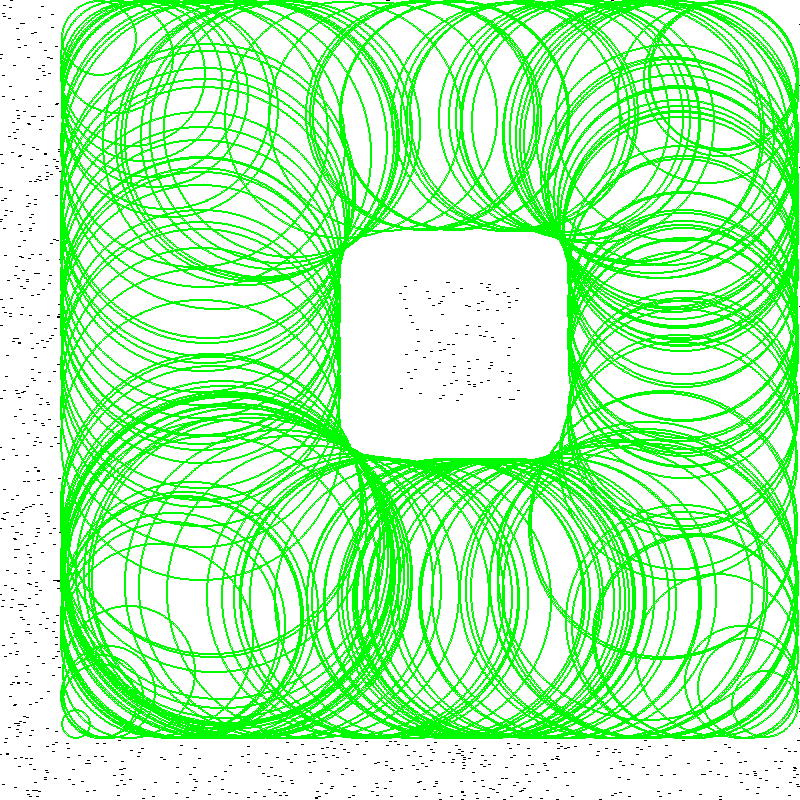
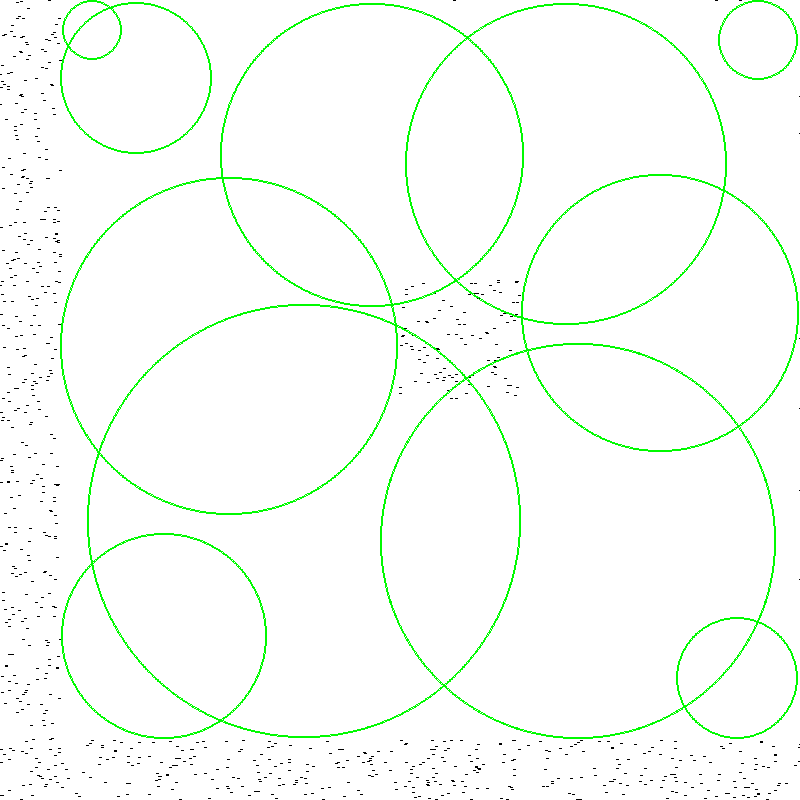
medial axis sampling done

diff --git a/sampling/masampling.py b/sampling/masampling.py
@@ -83,37 +83,32 @@ class BlockSamplingHelper( samplinghelper ):
 			raise Exception( 'Please give a BlockRobot instance' );
 		if not isinstance(config, BlockRobotConfig):
 			config = BlockRobotConfig(config[0], config[1], config[2], config[3]);
-
-		#wall_dists = [0] * len(dimensions);
-		#for i in range(0, len(dimensions)):
-		#	wall_dists[i] = min( [math.fabs(config[i]), math.fabs(dimensions[i]-config[i]) ] )
-
-		#return min( [min(wall_dists) ,robot.config_clearance(config, mode)]);
 		return robot.config_clearance(config, mode);
 
-	def maSample(self, robot, config, direction, max_len, dimensions):
+	def maSample(self, robot, config, direction, max_len, dimensions, mode = 'L2'):
 		'''get the medial axis sample along a directon, with max length.
 		@param dimensions: max values of each dimension'''
 		if not self.is_valid_config(robot, config):
-			raise Exception('Has to be a feasible configuration');
+			#raise Exception('Has to be a feasible configuration');
+			return None, None
 		t = 1;
 		last_increase = False;
-		last_dist = self.config_clearance(robot, config, dimensions);
+		last_dist = self.config_clearance(robot, config, dimensions, mode);
 		dists = [last_dist];
 		while True:
 			if t-1 >= max_len:
 				return None, None;
 			temp = config + direction * t
 			#print temp
-			this_dist = self.config_clearance(robot, temp, dimensions); 
+			this_dist = self.config_clearance(robot, temp, dimensions, mode); 
 			dists.append(this_dist);
 			if this_dist <=0 or this_dist-last_dist == 0:
 				break;
 			this_increase = ((this_dist-last_dist)>0);
 			if last_increase and not this_increase:
 				if self.is_valid_config(robot, temp):
-					print '-----------------------------'
-					print dists
+					#print '-----------------------------'
+					#print dists
 					return temp, this_dist;
 				else:
 					return None, None;
@@ -181,13 +176,14 @@ class MedialAxisSampler:
 
 		return dir.normalize();
 
-	def sample_medial_axis(self, randSamples, dimensions):
+	def sample_medial_axis(self, randSamples, dimensions, mode = 'L2'):
 		'''Given a bunch of random samples, find some medial axis samples using them.
 		@param dimensions: max values of each dimension'''
-		length = 40;
+		length = 20;
 		ma_samples = []
 
 		for config in randSamples:
+
 			good = True;
 			for sphere in ma_samples:
 				if sphere.contains(config):
@@ -197,8 +193,8 @@ class MedialAxisSampler:
 				continue;
 
 			rnd_dir = self.random_dir( len(config) );
-			center, clearance = self.helper.maSample(self.robot, config, rnd_dir, length, dimensions);
-			if clearance == None:
+			center, clearance = self.helper.maSample(self.robot, config, rnd_dir, length, dimensions, mode);
+			if clearance == None or clearance <= 5.0:
 				continue;
 			sample = Sample(center, clearance);
 			ma_samples.append(sample);

diff --git a/basics/math/hyper_geometry.py b/basics/math/hyper_geometry.py
@@ -13,7 +13,7 @@ __author__ = 'Yinan'
 __revision__ = '$Revision$'
 
 
-from math import sqrt, pi, degrees, radians, cos, sin, acos, asin, atan2
+from math import sqrt, pi, degrees, radians, cos, sin, acos, asin, atan2, fabs
 
 
 #========================================================================================
@@ -58,12 +58,18 @@ class vec:
 		return rsq;
 
 	def r( self ):
-		'Return the length of the vector.'
-		return sqrt( self.rsq() );
+		'Return the l2 length of the vector.'
+		rsq = 0.0;
+		for i in range(0, len(self.pos)):
+			rsq += self.pos[i]**2
+		return sqrt(rsq);
 
 	def l1(self):
 		'''return the L1 distance'''
-		return sum(self.pos);
+		sum_ = 0.0;
+		for i in range(0, len(self.pos)):
+			sum_ += fabs(self.pos[i]*1.0)
+		return sum_;
 
 	length = r # alias
 
@@ -174,7 +180,7 @@ class hyper_sphere:
 		'''determine if the point is inside the sphere
 		@param point: (vec) the point'''
 		dist = (point - self.center).r();
-		return dist < point;
+		return dist < self.radius;
 
 	def intersects( self, other ):
 		'''determine if the other sphere is intersecting with self'''

diff --git a/sampling/test.py b/sampling/test.py
@@ -20,7 +20,7 @@ def main():
 	robot = BlockRobot();
 	#startConfig = BlockRobotConfig(100,200, 700, 600);
 	#goalConfig = BlockRobotConfig(400,400, 482.5, 332.5);
-	#testConfig = BlockRobotConfig(400, 400, 460, 500);
+	testConfig = BlockRobotConfig(400, 400, 350, 400);
 
 	helper  = BlockSamplingHelper();
 	sampler = MedialAxisSampler(robot, helper);
@@ -33,7 +33,7 @@ def main():
 		pygame.draw.line( DISPLAYSURF, (0,0,0), point, point, 3 );
 
 	random_configs = sampler.random_configs(4, 2000, dimensions);
-	ma_samples = sampler.sample_medial_axis(random_configs, dimensions);
+	ma_samples = sampler.sample_medial_axis(random_configs, dimensions, 'L1');
 	sampler.save_data(ma_samples, 'BlockRobotMASamples.txt');
 
 	print 'Get {0} medial axis samples'.format(len(ma_samples));
@@ -44,6 +44,9 @@ def main():
 	for sample in ma_samples:
 		point = (int(sample.center[2]), int(sample.center[3]));
 		pygame.draw.circle( DISPLAYSURF, (0,250,0), point, int(sample.radius), 2 );
+
+	#robot.set_config(testConfig);
+	#robot.render(DISPLAYSURF, 200);
 
 	pygame.image.save(DISPLAYSURF, 'BlockRobot.PNG');
 

diff --git a/basics/robotics/BlockRobots.py b/basics/robotics/BlockRobots.py
@@ -120,11 +120,11 @@ class BlockRobot( Robot ):
 
 	def config_clearance( self, config, mode='L2' ):
 		'''get the clearance of a given configuration without changing current config.
-		@param mode: str 'L1' or 'L2' '''  
+		@param mode: str 'L1' or 'L2' distance '''  
 		if self.is_valid_config(config):
 			collision_cfg = self.get_collission_config(config);
 			if mode == 'L2' or mode == 'l2':
-				return min( [self.clearance2wall(config) / (1.0),(collision_cfg-config).r()]);
+				return min( [self.clearance2wall(config), (collision_cfg-config).r()  * 1.41421356237]);
 			elif mode == 'L1' or mode == 'l1':
 				return min( [self.clearance2wall(config), (collision_cfg-config).l1()] );
 		else:
